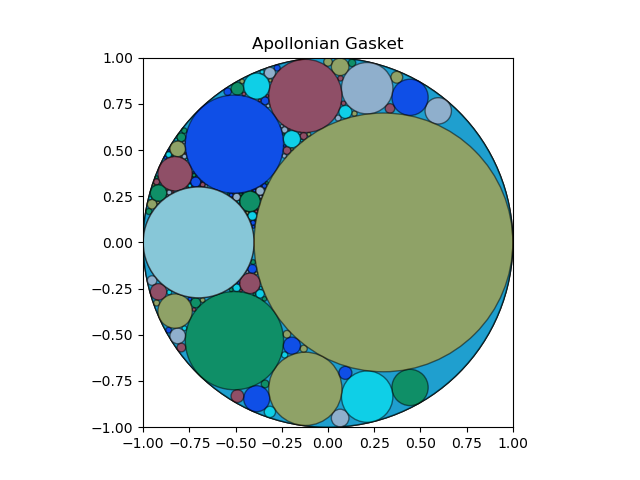
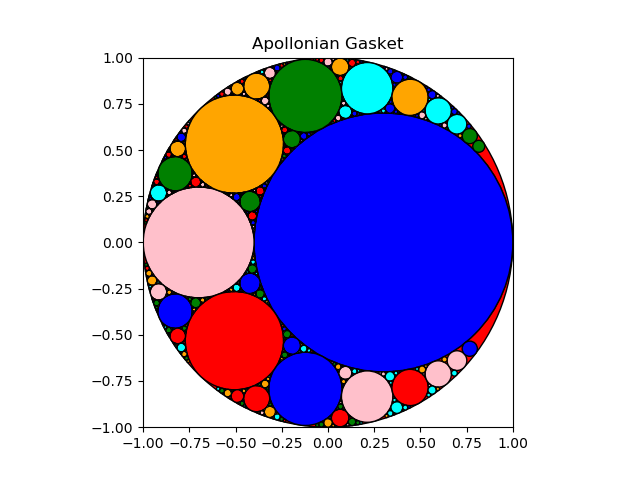
don't allow negative radii

diff --git a/gasket.py b/gasket.py
@@ -77,6 +77,8 @@ def solve(a, A, b, B, c, C, level, maxdepth, allcircles):
     for d, D in [(dp, Dplus),  (dp, Dminus), (dm, Dplus), (dm, Dminus)]:
         if not tangent(a, A, b, B, c, C, d, D):
             pass  # don't include this solution....don't recur on it
+        elif d < 0:
+            pass  # don't allow negative radii ???
         else:
             Dx = D.real/d
             Dy = D.imag/d
@@ -106,36 +108,6 @@ def printc(text, X, x, Y, y, Z, z, W=(99+99j), w=99):
     else:
         print("%s: %5.2f, %5.2f %5.2f |%5.2f, %5.2f %5.2f |%5.2f, %5.2f %5.2f |%5.2f, %5.2f %5.2f" %
               (text, xr, xi, 1/x, yr, yi, 1/y, zr, zi, 1/z, wr, wi, 1/w))
-
-
-def plot(allcircles):
-    """plot the circles"""
-    fig, ax = plt.subplots()
-    patches = []
-    ax.set_xlim(-1, 1)
-    ax.set_ylim(-1, 1)
-    ax.grid(False)
-    ax.set_aspect(1)
-    ax.set_title("Apollonian Gasket")
-
-    # sort keys based on circle radius, so we can plot largest first
-    keys = mysort(allcircles)
-    keys.reverse()
-    for key in keys[0:len(keys)-2]:    # remove duplicates???
-        cobj = allcircles[key]
-#       print(cobj)
-# todo: why are there similar circles in the list??? (0,0,-1) <-- 3 of these??
-        x = cobj.getX()
-        y = cobj.getY()
-        radius = cobj.getR()
-        circle = Circle((x, y), radius)
-        patches.append(circle)
-    mycolors = ["red", "green", "blue", "cyan", "pink", "orange"]
-    collection = PatchCollection(patches, edgecolor="black",
-                                 facecolor=mycolors,
-                                 alpha=0.2)
-    ax.add_collection(collection)
-    plt.show()
 
 
 def getx(prompt, minx, maxx):
@@ -229,6 +201,36 @@ def mysort(allcircles):
         values[posn] = value     # put it back at the end, in correct spot
         keys[posn] = key         # put it back at the end, in correct spot
     return keys
+
+
+def plot(allcircles):
+    """plot the circles"""
+    fig, ax = plt.subplots()
+    patches = []
+    ax.set_xlim(-1, 1)
+    ax.set_ylim(-1, 1)
+    ax.grid(False)
+    ax.set_aspect(1)
+    ax.set_title("Apollonian Gasket")
+
+    # sort keys based on circle radius, so we can plot largest first
+    keys = mysort(allcircles)
+#   keys.reverse()
+    for key in keys[0:len(keys) - 1]:    # remove duplicates???
+        cobj = allcircles[key]
+        print(cobj)
+# todo: why are there similar circles in the list??? (0,0,-1) <-- 3 of these??
+        x = cobj.getX()
+        y = cobj.getY()
+        radius = cobj.getR()
+        circle = Circle((x, y), radius)
+        patches.append(circle)
+    mycolors = ["red", "green", "blue", "cyan", "pink", "orange"]
+    collection = PatchCollection(patches, edgecolor="black",
+                                 facecolor=mycolors,
+                                 alpha=1.0)
+    ax.add_collection(collection)
+    plt.show()
 
 
 main()

diff --git a/mycircles.py b/mycircles.py
@@ -44,10 +44,15 @@ def main():
     print(C1)
     C2 = Circle(0.5,2.6,8)
     print(C2)
+    x = 1.0
+    y = 2
+    r = 4.0
     C3 = Circle(1.0,2,4.0)
     print(C3)
-    assert(C1==C3)
-    print(C3.getX(), C3.getY(), C3.getR())
+    assert(C1 == C3)
+    assert(C3.getX() == x)
+    assert(C3.getY() == y)
+    assert(C3.getR() == r)
     print("all tests passed!")
 
 
